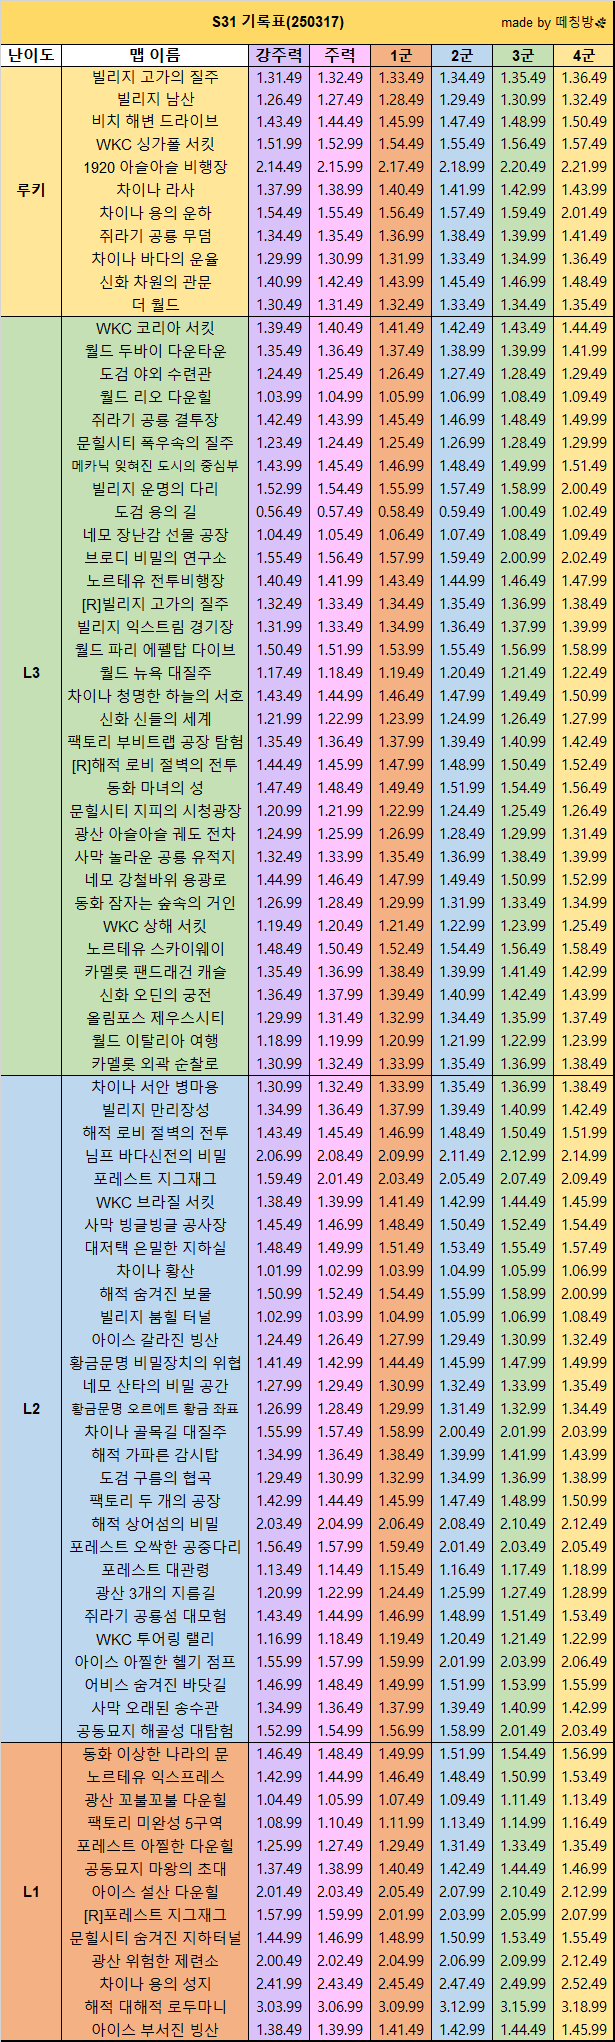
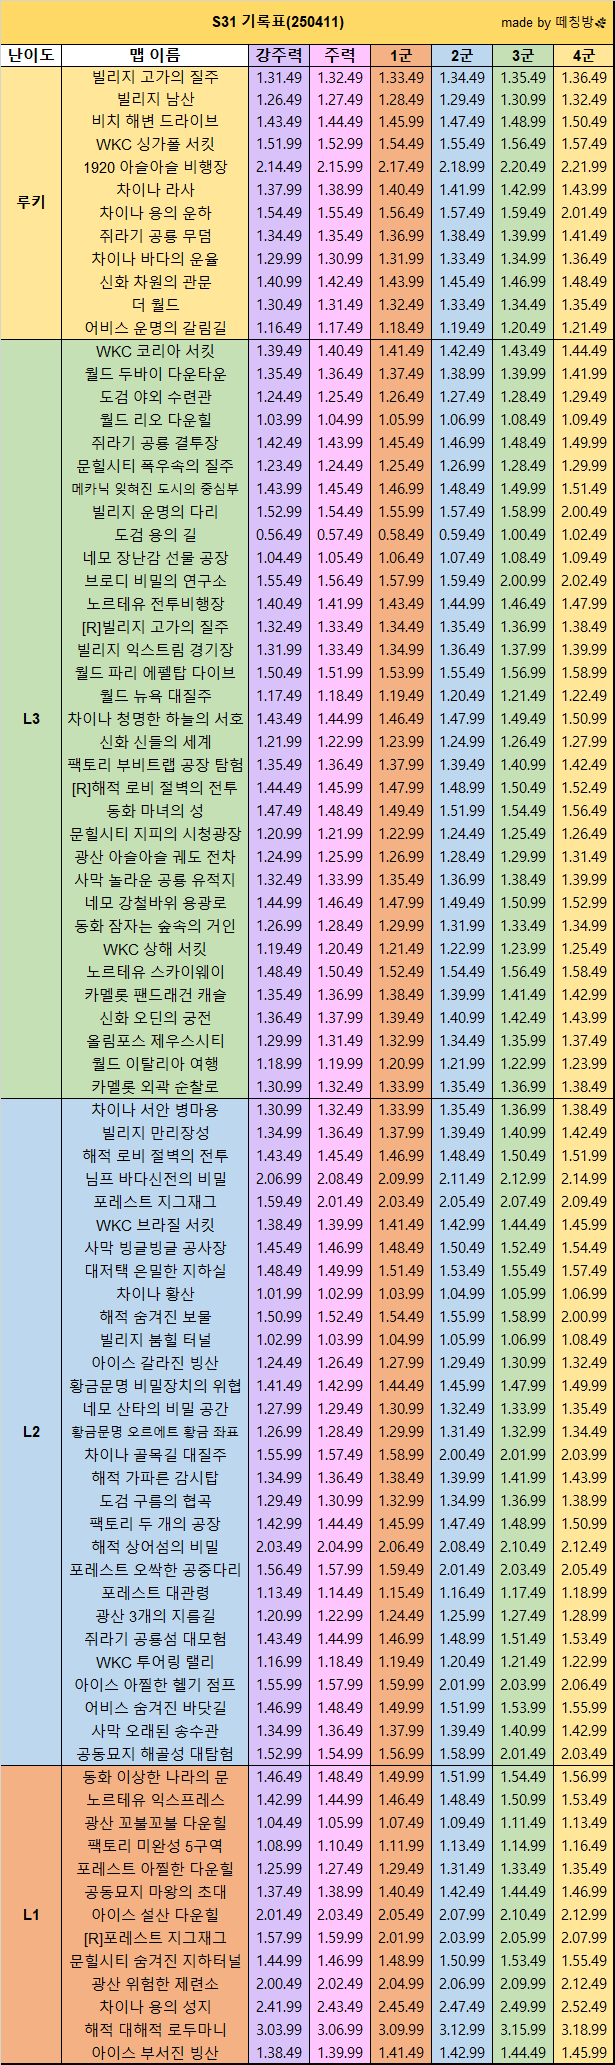
[frontend] feat: New S31 track

Changed region(s): [[0.0, 0.0, 0.9886, 1.0], [0.0309, 0.6787, 0.0618, 0.7096], [0.0309, 0.0926, 0.0618, 0.1234]]

diff --git a/client/src/global/mapImages.js b/client/src/global/mapImages.js
@@ -9,6 +9,7 @@ import Rookie_008 from "../assets/images/map/008 쥐공무.png";
 import Rookie_009 from "../assets/images/map/009 차이나 바다의 운율.png";
 import Rookie_010 from "../assets/images/map/010 신화 차원의 관문.png";
 import Rookie_011 from "../assets/images/map/011 더 월드.png";
+import Rookie_012 from "../assets/images/map/012 어비스 운명의 갈림길.png";
 
 import L3_001 from "../assets/images/map/001 코리아서킷.png";
 import L3_002 from "../assets/images/map/002 두바이.png";
@@ -101,6 +102,7 @@ const mapImages = [
   Rookie_009,
   Rookie_010,
   Rookie_011,
+  Rookie_012,
 
   L3_001,
   L3_002,

diff --git a/client/src/global/mapData.js b/client/src/global/mapData.js
@@ -142,6 +142,19 @@ const mapData = [
     ],
     image: "011 더 월드.png",
   },
+  {
+    name: "어비스 운명의 갈림길",
+    record: [
+      "01:16:49",
+      "01:17:49",
+      "01:18:49",
+      "01:19:49",
+      "01:20:49",
+      "01:21:49",
+      "01:21:49 +",
+    ],
+    image: "012 어비스 운명의 갈림길.png",
+  },
 
   {
     name: "WKC 코리아 서킷",
@@ -1136,7 +1149,7 @@ const mapData = [
 ];
 
 const mapCount = {
-  Rookie: 11,
+  Rookie: 12,
   L3: 33,
   L2: 29,
   L1: 13,
